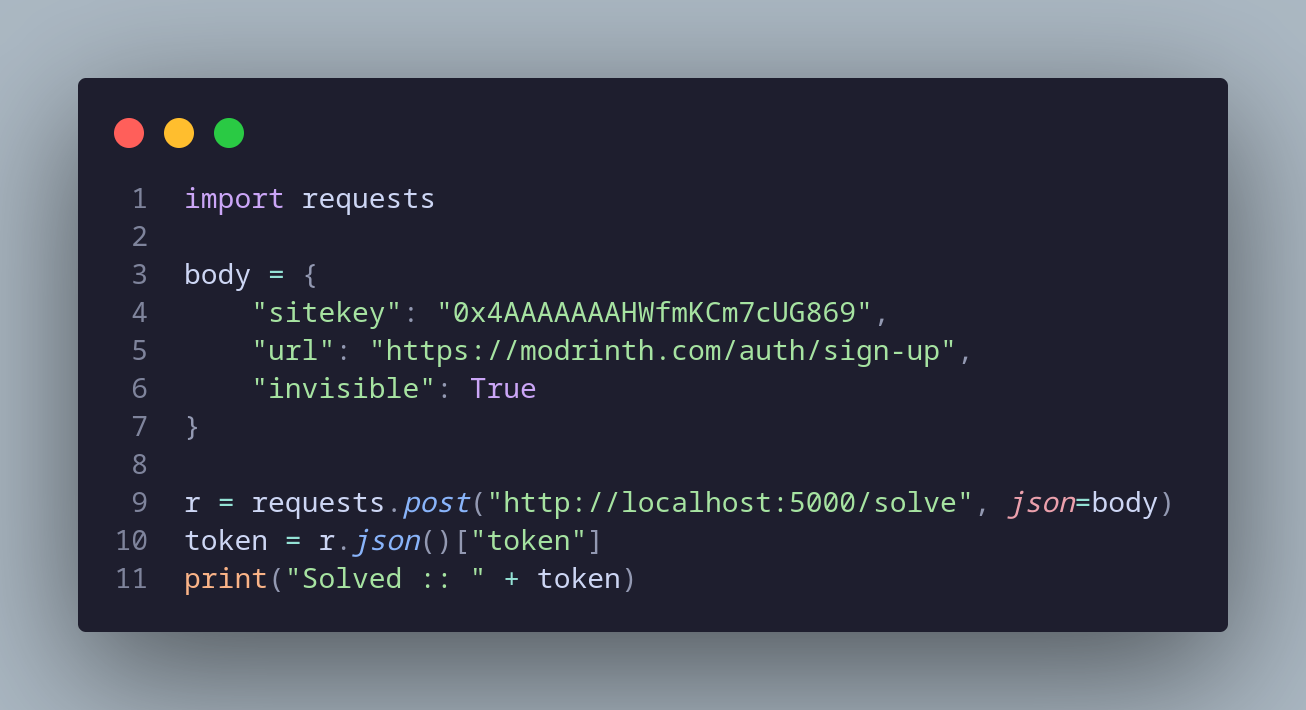
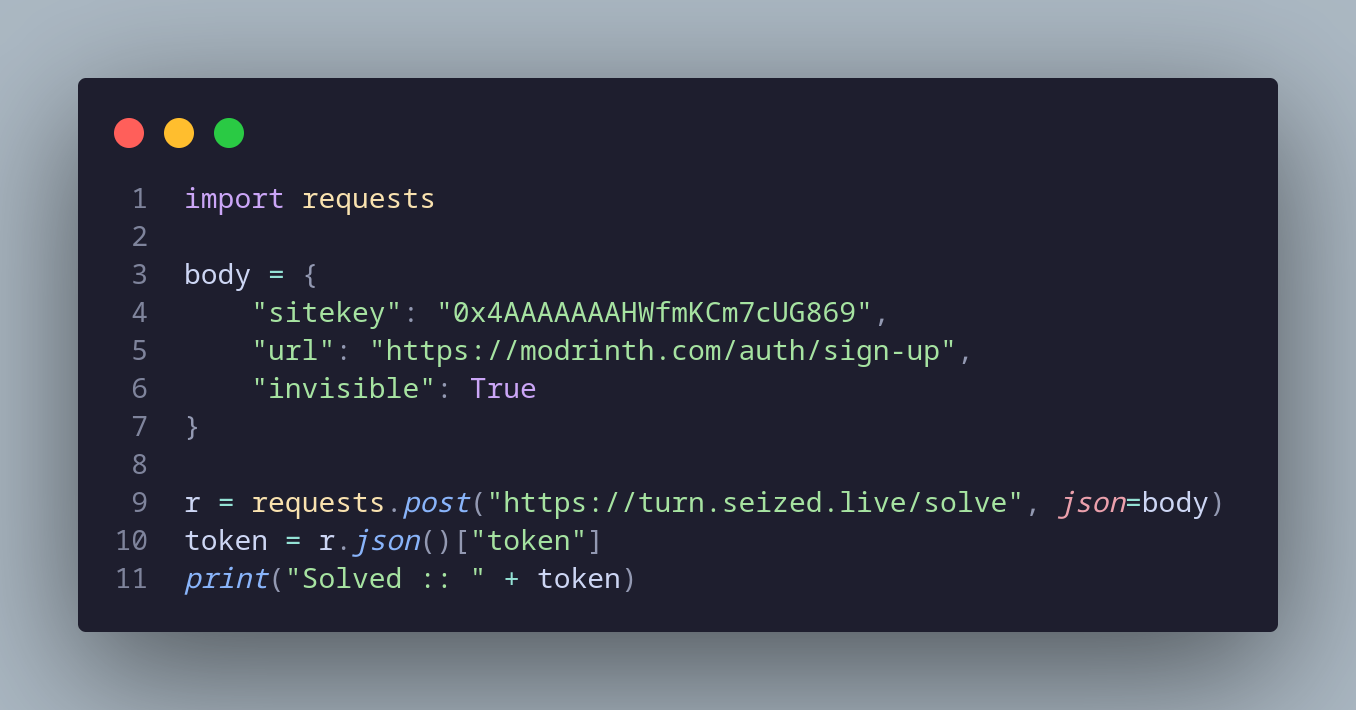
update imgs & example url

diff --git a/example.py b/example.py
@@ -6,6 +6,6 @@ body = {
 	"invisible": True
 }
 
-r = requests.post("http://localhost:5000/solve", json=body)
+r = requests.post("https://turn.seized.live/solve", json=body)
 token = r.json()["token"]
 print("Solved :: " + token)
